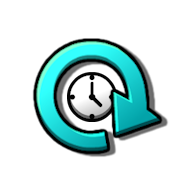
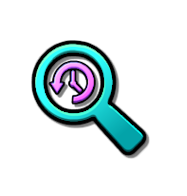
optimal optimizations

diff --git a/src/SearchHistory.hpp b/src/SearchHistory.hpp
@@ -33,6 +33,8 @@ public:
     static void remove(int);
 };
 
+#define PROPERTY_OR_DEFAULT(obj, prop, isFunc, asFunc, def) (obj.contains(prop) && obj[prop].isFunc() ? obj[prop].asFunc() : def)
+
 template<>
 struct matjson::Serialize<std::vector<SearchHistoryObject>> {
     static std::vector<SearchHistoryObject> from_json(matjson::Value const& value) {
@@ -40,36 +42,40 @@ struct matjson::Serialize<std::vector<SearchHistoryObject>> {
 
         for (auto const& elem : value.as_array()) {
             std::vector<int> difficulties;
-            for (auto const& e : elem["difficulties"].as_array()) {
-                difficulties.push_back(e.as_int());
+            if (elem.contains("difficulties") && elem["difficulties"].is_array()) {
+                for (auto const& e : elem["difficulties"].as_array()) {
+                    difficulties.push_back(e.as_int());
+                }
             }
 
             std::vector<int> lengths;
-            for (auto const& e : elem["lengths"].as_array()) {
-                lengths.push_back(e.as_int());
+            if (elem.contains("lengths") && elem["lengths"].is_array()) {
+                for (auto const& e : elem["lengths"].as_array()) {
+                    lengths.push_back(e.as_int());
+                }
             }
 
             vec.push_back({
-                .time = (int64_t)elem["time"].as_double(),
-                .type = elem["type"].as_int(),
-                .query = elem["query"].as_string(),
+                .time = (int64_t)PROPERTY_OR_DEFAULT(elem, "time", is_number, as_double, 0),
+                .type = PROPERTY_OR_DEFAULT(elem, "type", is_number, as_int, 0),
+                .query = PROPERTY_OR_DEFAULT(elem, "query", is_string, as_string, ""),
                 .difficulties = difficulties,
                 .lengths = lengths,
-                .uncompleted = elem["uncompleted"].as_bool(),
-                .completed = elem["completed"].as_bool(),
-                .featured = elem["featured"].as_bool(),
-                .original = elem["original"].as_bool(),
-                .twoPlayer = elem["two-player"].as_bool(),
-                .coins = elem["coins"].as_bool(),
-                .epic = elem["epic"].as_bool(),
-                .legendary = elem["legendary"].as_bool(),
-                .mythic = elem["mythic"].as_bool(),
-                .song = elem["song"].as_bool(),
-                .customSong = elem["custom-song"].as_bool(),
-                .songID = elem["song-id"].as_int(),
-                .demonFilter = elem["demon-filter"].as_int(),
-                .noStar = elem["no-star"].as_bool(),
-                .star = elem["star"].as_bool()
+                .uncompleted = PROPERTY_OR_DEFAULT(elem, "uncompleted", is_bool, as_bool, false),
+                .completed = PROPERTY_OR_DEFAULT(elem, "completed", is_bool, as_bool, false),
+                .featured = PROPERTY_OR_DEFAULT(elem, "featured", is_bool, as_bool, false),
+                .original = PROPERTY_OR_DEFAULT(elem, "original", is_bool, as_bool, false),
+                .twoPlayer = PROPERTY_OR_DEFAULT(elem, "two-player", is_bool, as_bool, false),
+                .coins = PROPERTY_OR_DEFAULT(elem, "coins", is_bool, as_bool, false),
+                .epic = PROPERTY_OR_DEFAULT(elem, "epic", is_bool, as_bool, false),
+                .legendary = PROPERTY_OR_DEFAULT(elem, "legendary", is_bool, as_bool, false),
+                .mythic = PROPERTY_OR_DEFAULT(elem, "mythic", is_bool, as_bool, false),
+                .song = PROPERTY_OR_DEFAULT(elem, "song", is_bool, as_bool, false),
+                .customSong = PROPERTY_OR_DEFAULT(elem, "custom-song", is_bool, as_bool, false),
+                .songID = PROPERTY_OR_DEFAULT(elem, "song-id", is_number, as_int, 0),
+                .demonFilter = PROPERTY_OR_DEFAULT(elem, "demon-filter", is_number, as_int, 0),
+                .noStar = PROPERTY_OR_DEFAULT(elem, "no-star", is_bool, as_bool, false),
+                .star = PROPERTY_OR_DEFAULT(elem, "star", is_bool, as_bool, false)
             });
         }
 
@@ -90,28 +96,31 @@ struct matjson::Serialize<std::vector<SearchHistoryObject>> {
                 lengths.push_back(e);
             }
 
-            arr.push_back(matjson::Object {
-                { "time", obj.time },
-                { "type", obj.type },
-                { "query", obj.query },
-                { "difficulties", difficulties },
-                { "lengths", lengths },
-                { "uncompleted", obj.uncompleted },
-                { "completed", obj.completed },
-                { "featured", obj.featured },
-                { "original", obj.original },
-                { "two-player", obj.twoPlayer },
-                { "coins", obj.coins },
-                { "epic", obj.epic },
-                { "legendary", obj.legendary },
-                { "mythic", obj.mythic },
-                { "song", obj.song },
-                { "custom-song", obj.customSong },
-                { "song-id", obj.songID },
-                { "demon-filter", obj.demonFilter },
-                { "no-star", obj.noStar },
-                { "star", obj.star }
-            });
+            matjson::Object historyObject;
+            historyObject["time"] = obj.time;
+            historyObject["type"] = obj.type;
+            if (!obj.query.empty()) historyObject["query"] = obj.query;
+            if (!difficulties.empty()) historyObject["difficulties"] = difficulties;
+            if (!lengths.empty()) historyObject["lengths"] = lengths;
+            if (obj.uncompleted) historyObject["uncompleted"] = obj.uncompleted;
+            if (obj.completed) historyObject["completed"] = obj.completed;
+            if (obj.featured) historyObject["featured"] = obj.featured;
+            if (obj.original) historyObject["original"] = obj.original;
+            if (obj.twoPlayer) historyObject["two-player"] = obj.twoPlayer;
+            if (obj.coins) historyObject["coins"] = obj.coins;
+            if (obj.epic) historyObject["epic"] = obj.epic;
+            if (obj.legendary) historyObject["legendary"] = obj.legendary;
+            if (obj.mythic) historyObject["mythic"] = obj.mythic;
+            if (obj.song) {
+                historyObject["song"] = obj.song;
+                if (obj.customSong) historyObject["custom-song"] = obj.customSong;
+                historyObject["song-id"] = obj.songID;
+            }
+            if (obj.demonFilter != 0) historyObject["demon-filter"] = obj.demonFilter;
+            if (obj.noStar) historyObject["no-star"] = obj.noStar;
+            if (obj.star) historyObject["star"] = obj.star;
+
+            arr.push_back(historyObject);
         }
 
         return arr;

diff --git a/README.md b/README.md
@@ -9,6 +9,7 @@ A mod that allows you to view your search history.
 ## Credits
 - [Kabslantivity](https://gdbrowser.com/u/17597362) - Initial idea for the mod
 - [at4pm](https://gdbrowser.com/u/27791517) - Additional ideas for the mod
+- [Krintop](https://gdbrowser.com/u/7242014) - Designer of the mod's button texture
 - [hiimjustin000](https://gdbrowser.com/u/7466002) - Creator of the mod
 
 ## Gallery

diff --git a/about.md b/about.md
@@ -9,6 +9,7 @@ A mod that allows you to view your search history.
 ## Credits
 - [Kabslantivity](user:17597362) - Initial idea for the mod
 - [at4pm](user:27791517) - Additional ideas for the mod
+- [Krintop](user:7242014) - Designer of the mod's button texture
 - [hiimjustin000](user:7466002) - Creator of the mod
 
 ## Gallery

diff --git a/changelog.md b/changelog.md
@@ -1,4 +1,8 @@
 # Search History Changelog
+## v1.0.4 (2024-09-07)
+- Removed properties from saved.json that are default values
+- Changed the search history button texture and mod logo
+
 ## v1.0.3 (2024-08-20)
 - Added incognito mode
 
